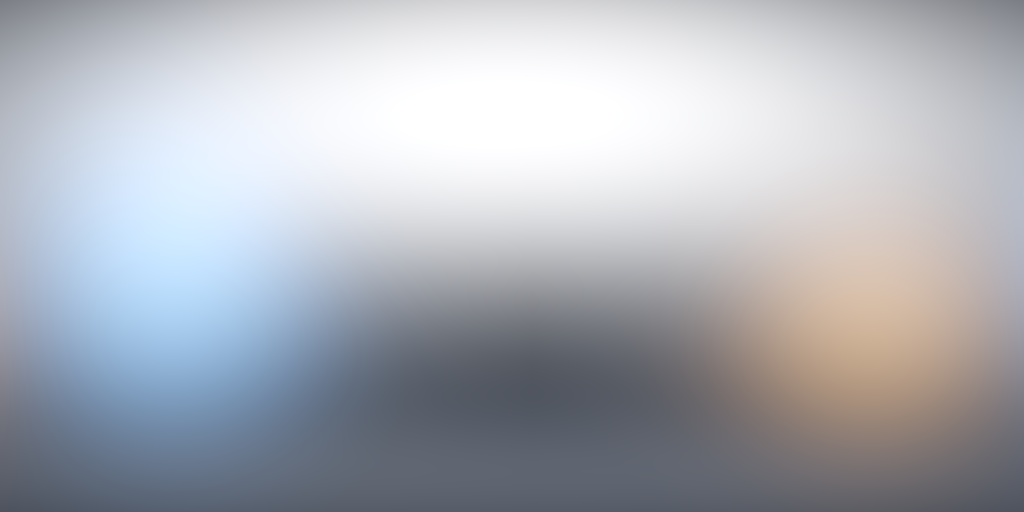
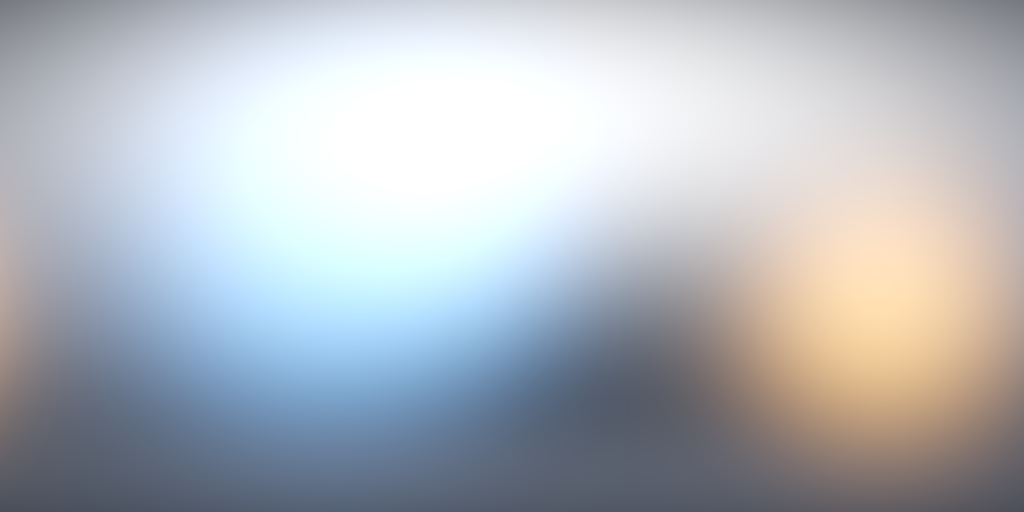
auto-commit for ac0e6b15-f9b4-4c0f-b3db-ee4b4ab27551

diff --git a/frontend/src/components/Hero.jsx b/frontend/src/components/Hero.jsx
@@ -65,7 +65,7 @@ export const Hero = ({ onOpenProject }) => {
             disable-zoom=""
             bounds="tight"
             orientation="0deg -90deg 0deg"
-            camera-target="auto auto auto"
+            camera-target="auto"
             camera-orbit="20deg 76deg 158%"
             min-camera-orbit="auto 45deg auto"
             max-camera-orbit="auto 100deg auto"
@@ -73,7 +73,7 @@ export const Hero = ({ onOpenProject }) => {
             tone-mapping="neutral"
             shadow-intensity="0.9"
             shadow-softness="1"
-            exposure="1.0"
+            exposure="1.18"
             environment-image="/models/studio-env.png"
             style={{ width: "100%", height: "100%", background: "transparent", "--poster-color": "transparent" }}
           />

diff --git a/scripts/gen_env.py b/scripts/gen_env.py
@@ -24,15 +24,16 @@ def blob(cx, cy, sx, sy, col, inten):
 
 lights = [
     # soft cool-white KEY light, upper front, broad and bright (keeps body neutral gray)
-    (0.50, 0.22, 0.36, 0.24, (1.00, 1.00, 1.02), 2.30),
+    (0.50, 0.22, 0.36, 0.24, (1.00, 1.00, 1.02), 2.05),
     # gentle cool fill from opposite, neutral
-    (0.02, 0.42, 0.42, 0.32, (0.60, 0.66, 0.78), 0.55),
-    # BLUE rim, left edge, mid — narrow so it reads as an edge accent
-    (0.17, 0.50, 0.12, 0.26, (0.20, 0.50, 1.00), 1.75),
-    # WARM ORANGE accent, right lower edge — narrow, subtle
-    (0.85, 0.60, 0.12, 0.22, (1.00, 0.50, 0.14), 0.80),
+    (0.02, 0.42, 0.42, 0.32, (0.58, 0.64, 0.78), 0.50),
+    # BLUE rim — placed toward the visible left-front edge, bright + a touch wide
+    (0.32, 0.44, 0.15, 0.28, (0.18, 0.48, 1.00), 3.10),
+    (0.44, 0.38, 0.11, 0.22, (0.20, 0.52, 1.00), 2.30),
+    # WARM ORANGE accent, right edge — narrow rim, eased slightly for balance
+    (0.86, 0.58, 0.11, 0.22, (1.00, 0.48, 0.12), 2.05),
     # subtle cool floor bounce
-    (0.50, 0.93, 0.60, 0.14, (0.34, 0.38, 0.46), 0.28),
+    (0.50, 0.93, 0.60, 0.14, (0.30, 0.34, 0.44), 0.26),
 ]
 
 for cx, cy, sx, sy, col, inten in lights:
